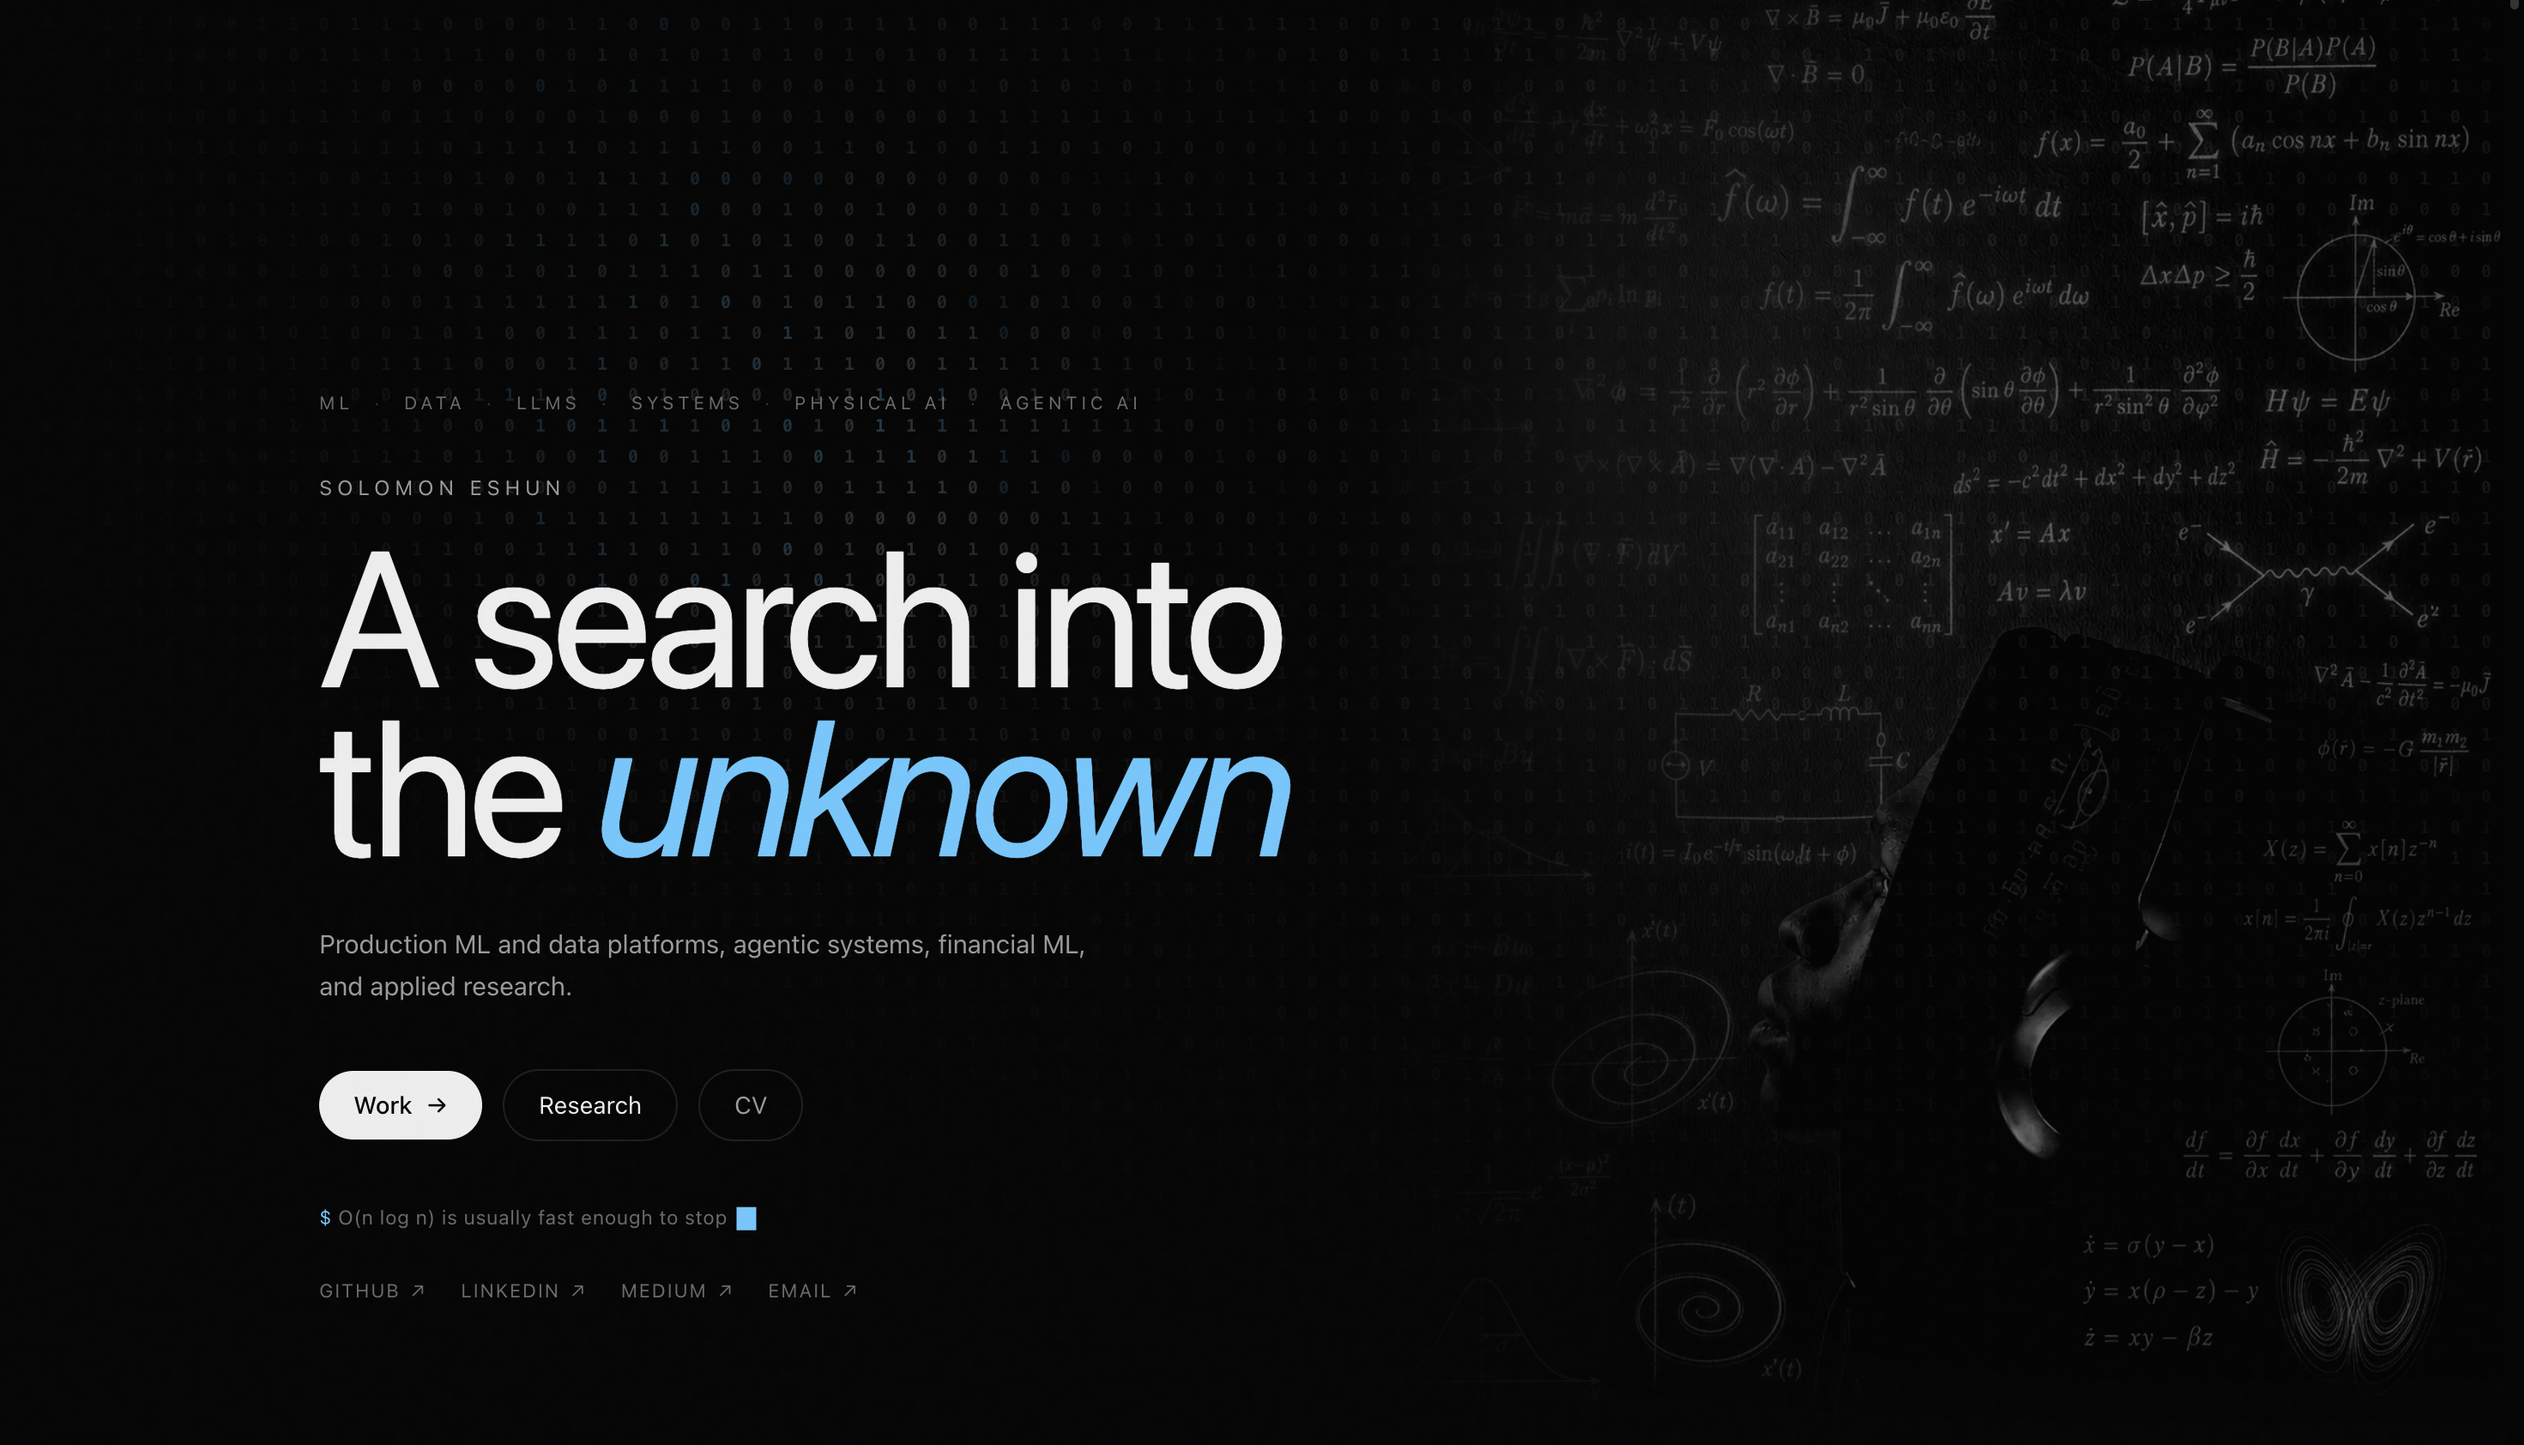
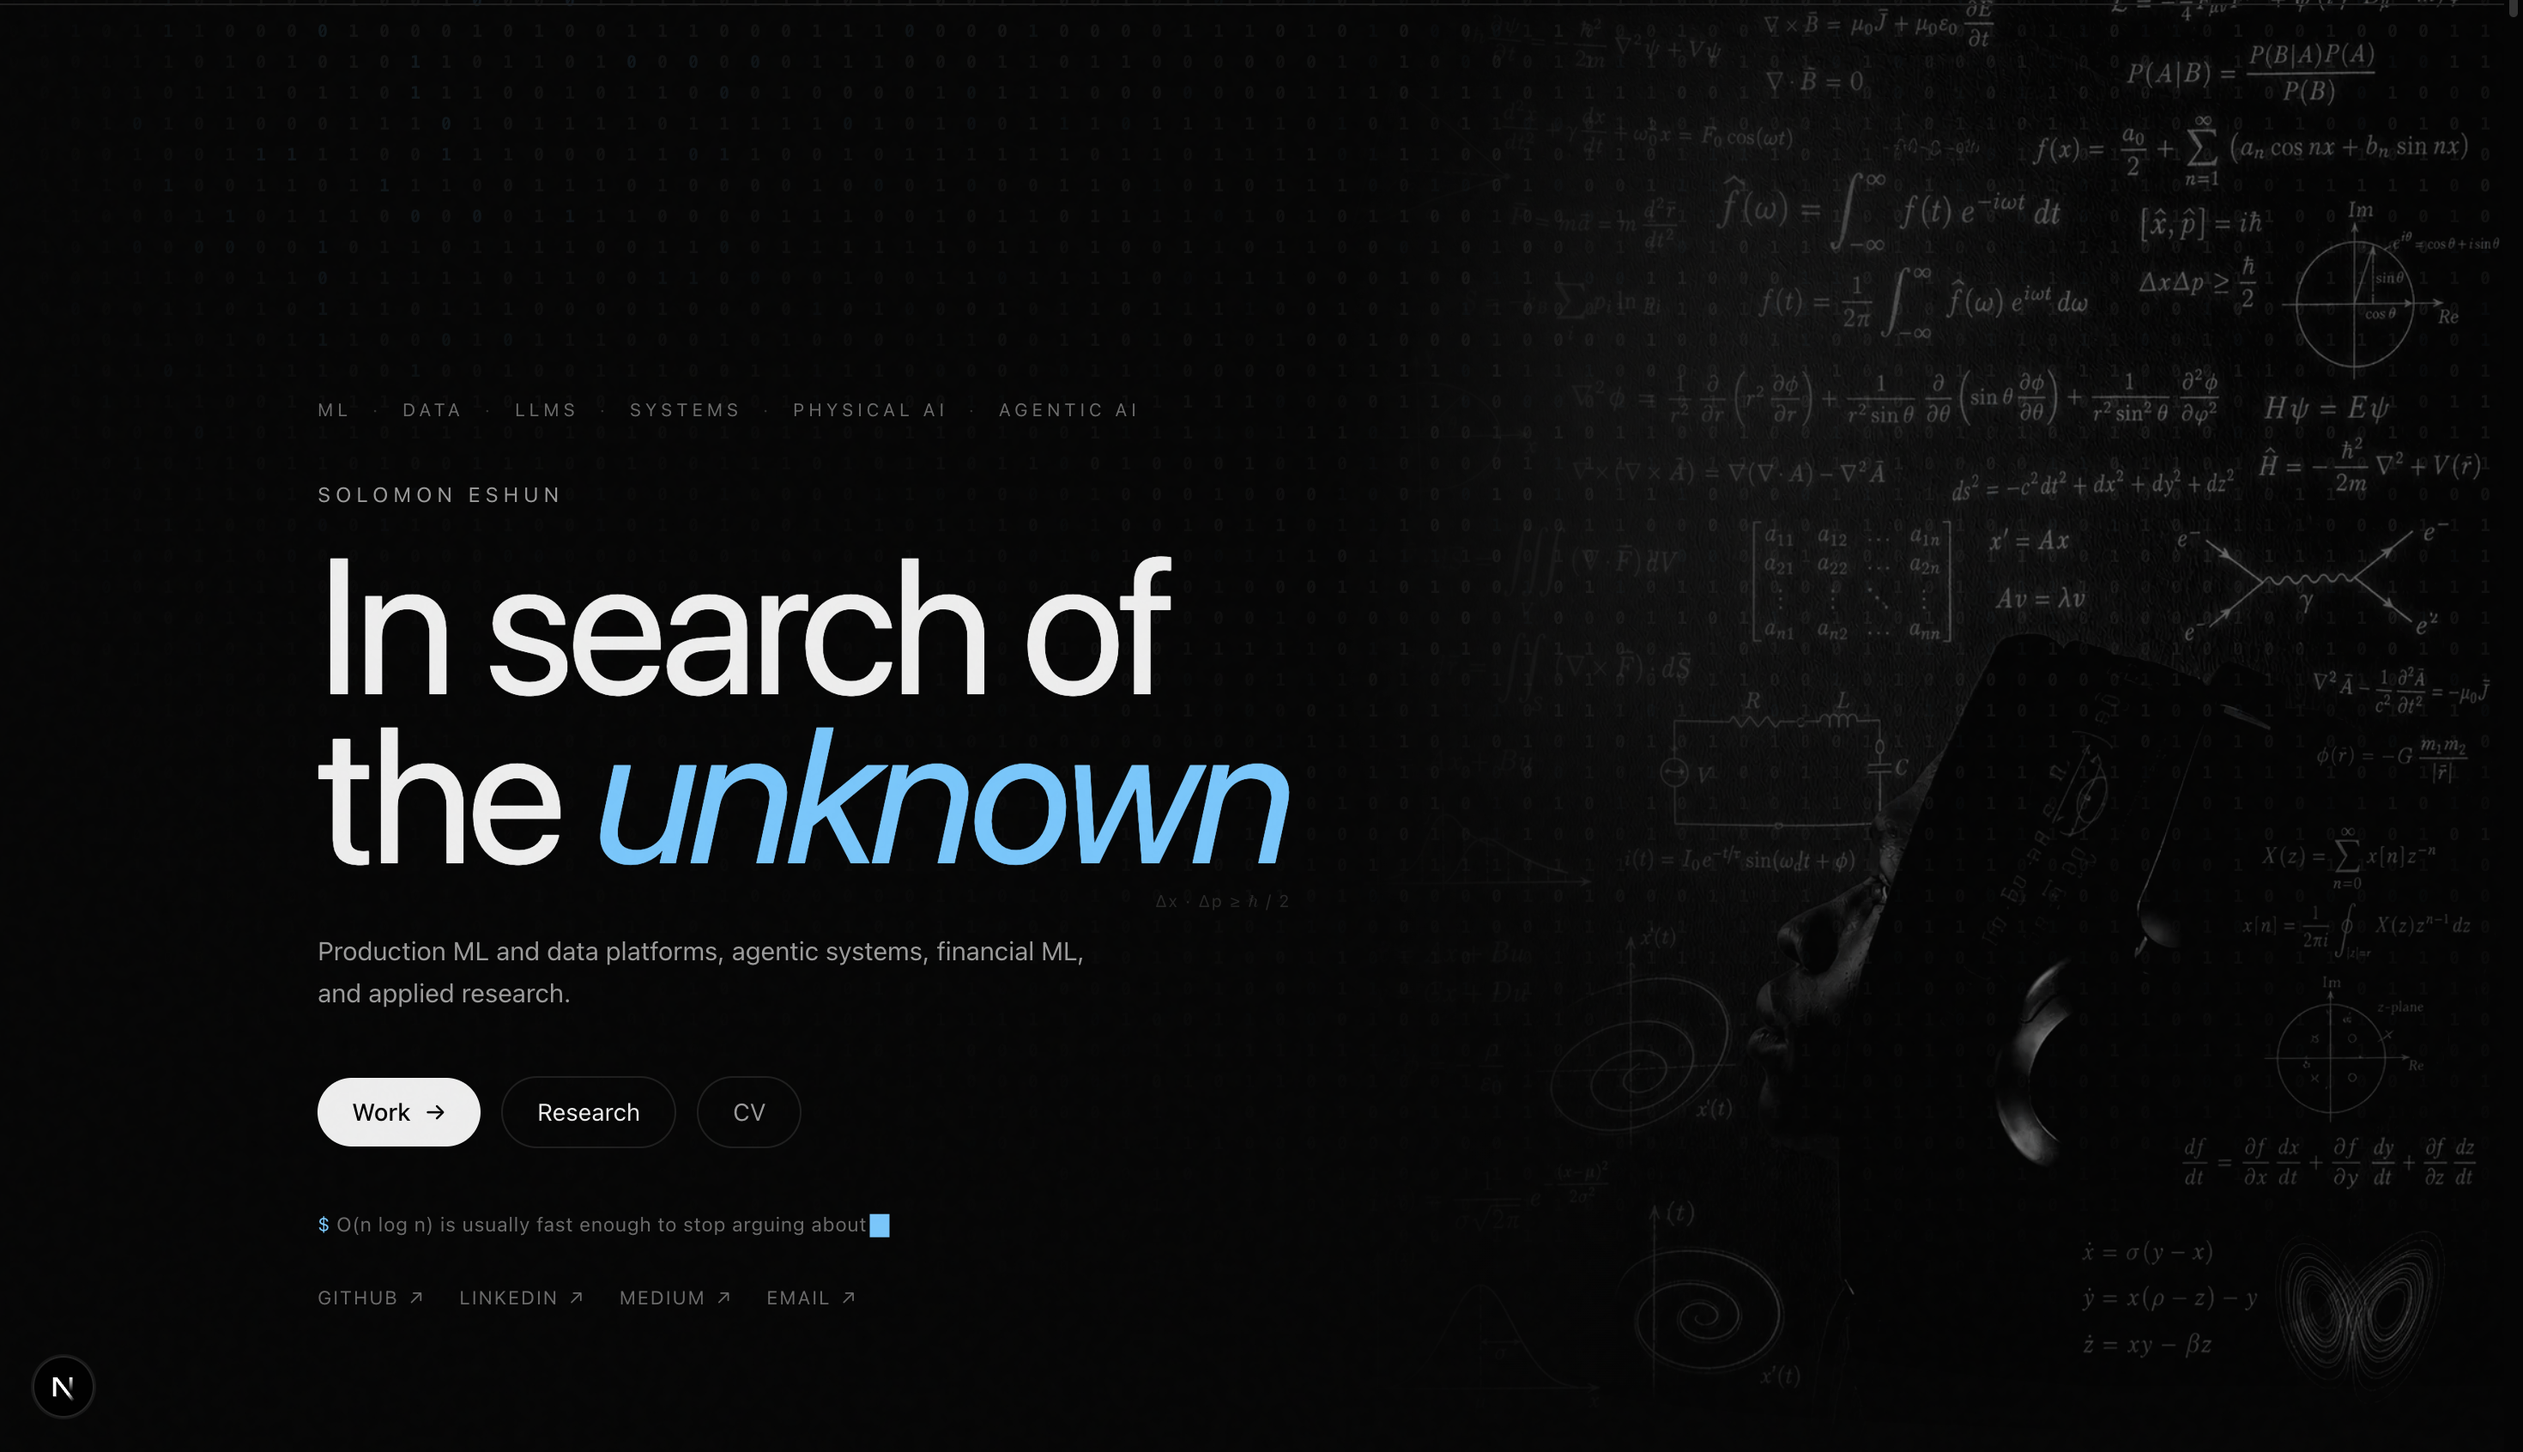
chore: refactor gallery and hero components; update art variant to galaxy

diff --git a/src/components/art/PageArt.tsx b/src/components/art/PageArt.tsx
@@ -10,7 +10,7 @@ export type ArtVariant =
   | "spectrum" // experience — signal resolved over time
   | "radial" // talks — something propagating outward
   | "diffusion" // writing — ink finding its shape
-  | "constellation"; // gallery — observations becoming a connected field
+  | "galaxy"; // gallery — a disc of observations, slowly turning
 
 /**
  * One canvas engine, six figures.
@@ -320,64 +320,74 @@ export function PageArt({
       }
     };
 
-    /** Drifting observations that briefly resolve into a connected field. */
-    const observations: { x: number; y: number; vx: number; vy: number; z: number }[] = [];
-    const constellation = () => {
-      if (!observations.length) {
-        for (let i = 0; i < 48; i++) {
-          observations.push({
-            x: Math.random() * w,
-            y: Math.random() * h,
-            vx: (Math.random() - 0.5) * 0.16,
-            vy: (Math.random() - 0.5) * 0.12,
+    /**
+     * A tilted spiral disc. Stars sit on two logarithmic arms, denser toward
+     * the core, and shear as they turn — inner orbits faster than outer, the
+     * way a real disc does. No links between points: this is a field of
+     * observations, not a network.
+     */
+    const stars: {
+      r: number;
+      th: number;
+      om: number;
+      z: number;
+      hot: boolean;
+    }[] = [];
+
+    const galaxy = () => {
+      const cx = w * 0.58;
+      const cy = h * 0.5;
+      const maxR = Math.max(w, h) * 0.52;
+
+      if (!stars.length) {
+        const ARMS = 2;
+        for (let i = 0; i < 460; i++) {
+          // sqrt-biased radius packs more stars near the centre
+          const f = Math.pow(Math.random(), 0.62);
+          const r = 14 + f * maxR;
+          const spread = (1 - f * 0.6) * 0.85;
+          const th =
+            ((i % ARMS) / ARMS) * Math.PI * 2 +
+            Math.log(r / 10) * 2.0 +
+            (Math.random() - 0.5) * spread;
+          stars.push({
+            r,
+            th,
+            om: 0.55 / Math.sqrt(r / maxR + 0.1), // differential rotation
             z: Math.random(),
+            hot: Math.random() < 0.05,
           });
         }
       }
 
-      const reach = Math.min(190, w * 0.18);
-      for (const p of observations) {
-        p.x += p.vx * (0.45 + p.z);
-        p.y += p.vy * (0.45 + p.z);
+      // core bloom
+      const g = ctx.createRadialGradient(cx, cy, 0, cx, cy, maxR * 0.5);
+      g.addColorStop(0, c.node);
+      g.addColorStop(1, "transparent");
+      ctx.globalAlpha = 0.05 * intensity;
+      ctx.fillStyle = g;
+      ctx.beginPath();
+      ctx.ellipse(cx, cy, maxR * 0.7, maxR * 0.3, 0, 0, Math.PI * 2);
+      ctx.fill();
 
-        const pd = Math.hypot(p.x - ptr.x, p.y - ptr.y);
-        if (pd < 170 && pd > 1) {
-          const pull = (1 - pd / 170) * ptr.k * 0.22;
-          p.x += ((ptr.x - p.x) / pd) * pull;
-          p.y += ((ptr.y - p.y) / pd) * pull;
-        }
+      for (const s of stars) {
+        s.th += s.om * 0.0016;
 
-        if (p.x < -12) p.x = w + 12;
-        if (p.x > w + 12) p.x = -12;
-        if (p.y < -12) p.y = h + 12;
-        if (p.y > h + 12) p.y = -12;
-      }
+        const x = cx + Math.cos(s.th) * s.r * 1.32;
+        const y = cy + Math.sin(s.th) * s.r * 0.46;
 
-      for (let i = 0; i < observations.length; i++) {
-        const a = observations[i];
-        for (let j = i + 1; j < observations.length; j++) {
-          const b = observations[j];
-          const d = Math.hypot(a.x - b.x, a.y - b.y);
-          if (d >= reach) continue;
-          const hot = (i * 7 + j * 11) % 29 === 0;
-          ctx.beginPath();
-          ctx.moveTo(a.x, a.y);
-          ctx.lineTo(b.x, b.y);
-          ctx.strokeStyle = hot ? c.accent : c.line;
-          ctx.globalAlpha = (1 - d / reach) * (hot ? 0.75 : 0.42) * intensity;
-          ctx.lineWidth = hot ? 1.2 : 0.8;
-          ctx.stroke();
-        }
-      }
+        const twinkle = 0.72 + Math.sin(t * 1.6 + s.z * 12) * 0.28;
+        const near =
+          Math.exp(-((Math.hypot(x - ptr.x, y - ptr.y) / 165) ** 2)) * ptr.k;
 
-      observations.forEach((p, i) => {
-        const hot = i % 13 === 0;
+        const rad = (0.5 + s.z * 1.25) * (1 + near * 1.4);
         ctx.beginPath();
-        ctx.arc(p.x, p.y, hot ? 2.5 : 1 + p.z * 1.25, 0, Math.PI * 2);
-        ctx.fillStyle = hot ? c.accent : c.node;
-        ctx.globalAlpha = (hot ? 0.85 : 0.32 + p.z * 0.35) * intensity;
+        ctx.arc(x, y, rad, 0, Math.PI * 2);
+        ctx.fillStyle = s.hot ? c.accent : c.node;
+        ctx.globalAlpha =
+          Math.min(1, (0.1 + s.z * 0.42) * twinkle + near * 0.75) * intensity;
         ctx.fill();
-      });
+      }
     };
 
     const FIGURES = {
@@ -388,7 +398,7 @@ export function PageArt({
       spectrum,
       radial,
       diffusion,
-      constellation,
+      galaxy,
     };
 
     const draw = () => {

diff --git a/src/app/globals.css b/src/app/globals.css
@@ -203,34 +203,12 @@ body {
   text-wrap: pretty;
 }
 
-/* A quiet measurement trace beneath the hero's final word. The equation is
-   contextual texture; the headline itself stays stable and fully readable. */
+/* The headline stays plain. The uncertainty relation sits under it as quiet
+   contextual texture — no underline, no motion on the word itself. */
 .unknown-word {
   position: relative;
   display: inline-block;
   padding-right: 0.035em;
-}
-
-.unknown-trace {
-  position: absolute;
-  right: 0.04em;
-  bottom: -0.09em;
-  left: 0.04em;
-  height: 1px;
-  background: linear-gradient(90deg, transparent, currentColor 18%, currentColor 82%, transparent);
-  opacity: 0.38;
-}
-
-.unknown-particle {
-  position: absolute;
-  top: 50%;
-  left: 0;
-  width: 5px;
-  height: 5px;
-  border-radius: 999px;
-  background: currentColor;
-  box-shadow: 0 0 12px color-mix(in srgb, currentColor 80%, transparent);
-  transform: translateY(-50%);
 }
 
 .unknown-equation {
@@ -249,20 +227,9 @@ body {
 }
 
 @media (prefers-reduced-motion: no-preference) {
-  .unknown-particle {
-    animation: unknown-measure 5.8s var(--ease-out-expo) infinite;
-  }
-
   .unknown-equation {
     animation: uncertainty-reading 5.8s ease-in-out infinite;
   }
-}
-
-@keyframes unknown-measure {
-  0%, 12% { left: 0; opacity: 0; }
-  20% { opacity: 1; }
-  68% { left: calc(100% - 5px); opacity: 1; }
-  78%, 100% { left: calc(100% - 5px); opacity: 0; }
 }
 
 @keyframes uncertainty-reading {

diff --git a/src/components/hero/Hero.tsx b/src/components/hero/Hero.tsx
@@ -43,9 +43,6 @@ export function Hero() {
               the{" "}
               <span className="unknown-word italic text-accent">
                 unknown
-                <span aria-hidden className="unknown-trace">
-                  <span className="unknown-particle" />
-                </span>
                 <span aria-hidden className="unknown-equation">
                   Δx · Δp ≥ ℏ / 2
                 </span>

diff --git a/src/app/gallery/page.tsx b/src/app/gallery/page.tsx
@@ -15,8 +15,8 @@ export default function GalleryPage() {
     <>
       <PageHeader
         eyebrow="Gallery"
-        art="constellation"
-        figure="Fig. 07 — observations, connected"
+        art="galaxy"
+        figure="Fig. 07 — a disc, slowly turning"
         title="Out in the world🌍."
         intro="Sites, sessions, and a considerable amount of work conducted at unreasonable hours."
       />
